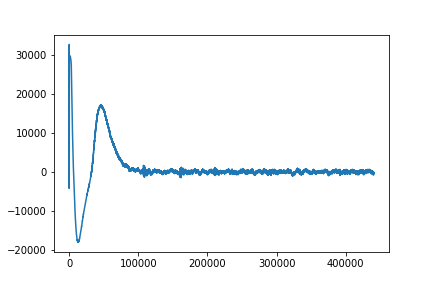
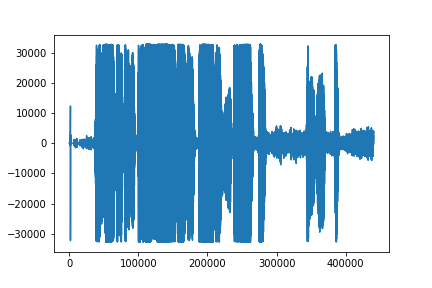
Agregue funciones
Agregué función de grabación
Agregué función que marac maximos de grabacion

diff --git a/PrimeraClase/seno.py b/PrimeraClase/seno.py
@@ -20,6 +20,72 @@ def seno(frecuencia, duracion, amplitud=1, fs=192000):
     plt.show()
     
     return seno
+
+def grabacion(duracion, fs=192000):
+    """
+    Graba la entrada de microfono por el tiempo especificado
+    """
+    sd.default.samplerate = fs #frecuencia de muestreo
+    sd.default.channels = 1#1 porque la entrada es una sola
+    
+    grab = sd.rec(frames = fs*duracion, blocking = True)
+    tiempo=np.arange(fs*duracion)/fs
+    
+    
+    #sd.default.channels = 1 #por las dos salidas de audio
+    #grab = sd.playrec(seno, blocking=True)
+    
+    #grafico señal y maximos       
+    plt.plot(tiempo,grab,'*')
+    plt.title('Grabacion')
+    plt.xlabel('Tiempo(s)')
+    plt.ylabel('Amplitud')
+    plt.show()    
+    
+    return grab
+    
+
+
+
+
+def max_grabacion(duracion, amplitud=1, fs=192000):
+    '''
+    Calcula los maximos de la grabacion del microfono
+    '''
+    
+    grab=grabacion(duracion, fs=192000)
+    
+    #array del tiempo
+    tiempo=np.arange(fs*duracion)/fs
+    
+    maximos=[]   #array de los maximos de la señal
+    ubic_max=[]  #array de la ubicación de los maximos
+    
+    i=1    # i recorre todo el array del seno
+
+    #busco los primeros 10 maximos----> j<10
+    while i<len(grab)-1:
+        
+        if grab[i-1] < grab[i] and grab[i] > grab[i+1]:
+            maximos.append(grab[i])        #guardo los maximos de la señal 
+            ubic_max.append(tiempo[i])    #guardo la ubicación de los maximos de la señal
+            
+        
+        i+=1
+    
+    #axes=plt.gca()
+    #axes.set_xlim([0.249,0.52])
+    #axes.set_ylim([0.999,1.02])
+    
+    
+    #grafico señal y maximos       
+    plt.plot(tiempo,grab,'*')
+    plt.title('Grabacion y maximos')
+    plt.xlabel('Tiempo(s)')
+    plt.ylabel('Amplitud')
+    plt.plot(ubic_max[:],maximos[:], 'rs')
+    plt.show()    
+    
     
 
 
@@ -29,7 +95,7 @@ def max_sin(frecuencia, duracion, amplitud=1, fs=192000):
     """
     #array de la función de entrada
     sin=[]       
-    sin=seno(frecuencia, duracion, amplitud=1, fs=192000)
+    sin=seno(frecuencia, duracion, fs=192000)
     #array del tiempo
     tiempo=np.arange(fs*duracion)/fs
     
@@ -49,9 +115,12 @@ def max_sin(frecuencia, duracion, amplitud=1, fs=192000):
             j+=1
         
         i+=1
- 
+        
+    axes=plt.gca()
+    #axes.set_xlim([0.0249,0.0252])
+    #axes.set_ylim([0.9999,1.0002])
     #grafico señal y maximos       
-    plt.plot(tiempo[:i+1],sin[:i+1])
+    plt.plot(tiempo[:i+1],sin[:i+1],'*')
     plt.title('primeros 10 picos')
     plt.xlabel('Tiempo(s)')
     plt.ylabel('Amplitud')
@@ -59,6 +128,7 @@ def max_sin(frecuencia, duracion, amplitud=1, fs=192000):
     plt.show()    
     
     return j,maximos  # pido ver cuantos maximos tengo y sus valores
+
 
     
 def frecuencias(frec=0,fmax=30000):
@@ -82,3 +152,15 @@ def barrido_frec1 (frec=0,fmax=30000):
     
     #print(plt.plot(frecuencia))
         
+#%%
+def record(duracion, fs=44100):
+    """
+    Graba la entrada de microfono por el tiempo especificado
+    """
+    sd.default.samplerate = fs #frecuencia de muestreo
+    sd.default.channels = 2 #1 porque la entrada es una sola
+    
+    grabacion = sd.rec(frames = fs*duracion, blocking = True)
+    return grabacion    
+    
+    
